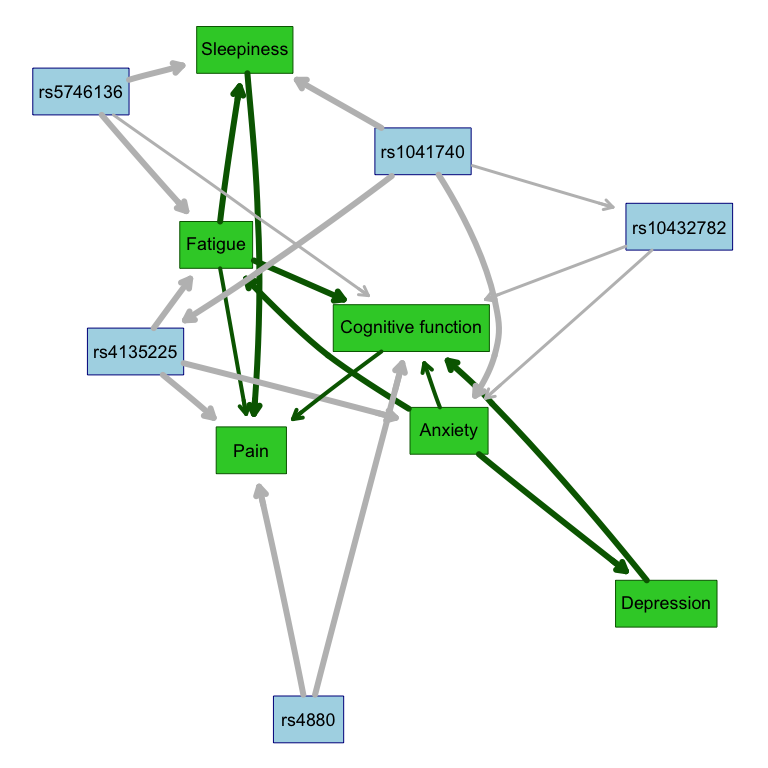
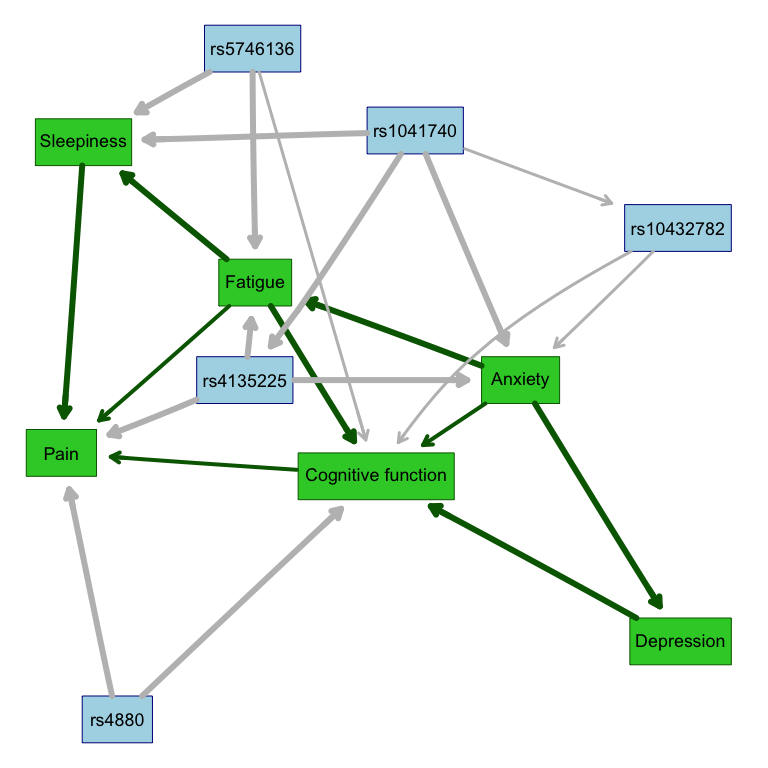
updating plots for mvbimbam and bnlearn

diff --git a/01_mvNUR_bnlearn.md b/01_mvNUR_bnlearn.md
@@ -305,73 +305,73 @@ results <- run_plot_graph(data = df, k_crossval = 5, k_iterations = 5, alpha = 0
 
     ## * overall cross-validated correlations:
     ##   > PREDCOR( EMO_tscore ): 0.3450264 
-    ##   > POSTCOR( EMO_tscore ): 0.3439605 
+    ##   > POSTCOR( EMO_tscore ): 0.3418341 
     ##   > PREDCOR( bdito ): 0.5794972 
-    ##   > POSTCOR( bdito ): 0.1529458 
+    ##   > POSTCOR( bdito ): 0.1564295 
     ##   > PREDCOR( FAT_tscore ): 0.7323366 
-    ##   > POSTCOR( FAT_tscore ): 0.4708158 
+    ##   > POSTCOR( FAT_tscore ): 0.4701054 
     ##   > PREDCOR( paohcif ): 0.6703178 
-    ##   > POSTCOR( paohcif ): 0.3067327 
+    ##   > POSTCOR( paohcif ): 0.3077809 
     ##   > PREDCOR( EPSscore ): 0.4307685 
-    ##   > POSTCOR( EPSscore ): 0.2767515 
+    ##   > POSTCOR( EPSscore ): 0.2783773 
     ##   > PREDCOR( pain ): 0.5086095 
-    ##   > POSTCOR( pain ): 0.3388915 
+    ##   > POSTCOR( pain ): 0.3444792 
     ## * overall cross-validated correlations:
     ##   > PREDCOR( EMO_tscore ): 0.3668206 
-    ##   > POSTCOR( EMO_tscore ): 0.3615989 
+    ##   > POSTCOR( EMO_tscore ): 0.3637307 
     ##   > PREDCOR( bdito ): 0.5824107 
-    ##   > POSTCOR( bdito ): 0.1558385 
+    ##   > POSTCOR( bdito ): 0.1742357 
     ##   > PREDCOR( FAT_tscore ): 0.7340804 
-    ##   > POSTCOR( FAT_tscore ): 0.4740632 
+    ##   > POSTCOR( FAT_tscore ): 0.4730514 
     ##   > PREDCOR( paohcif ): 0.6728188 
-    ##   > POSTCOR( paohcif ): 0.3080242 
+    ##   > POSTCOR( paohcif ): 0.3142044 
     ##   > PREDCOR( EPSscore ): 0.4332637 
-    ##   > POSTCOR( EPSscore ): 0.2864486 
+    ##   > POSTCOR( EPSscore ): 0.2818876 
     ##   > PREDCOR( pain ): 0.516585 
-    ##   > POSTCOR( pain ): 0.3434998 
+    ##   > POSTCOR( pain ): 0.3397383 
     ## * overall cross-validated correlations:
     ##   > PREDCOR( EMO_tscore ): 0.3362601 
-    ##   > POSTCOR( EMO_tscore ): 0.3342744 
+    ##   > POSTCOR( EMO_tscore ): 0.3351085 
     ##   > PREDCOR( bdito ): 0.6035443 
-    ##   > POSTCOR( bdito ): 0.1938742 
+    ##   > POSTCOR( bdito ): 0.1941734 
     ##   > PREDCOR( FAT_tscore ): 0.7327031 
-    ##   > POSTCOR( FAT_tscore ): 0.4666553 
+    ##   > POSTCOR( FAT_tscore ): 0.4663249 
     ##   > PREDCOR( paohcif ): 0.6564999 
-    ##   > POSTCOR( paohcif ): 0.3085996 
+    ##   > POSTCOR( paohcif ): 0.3083567 
     ##   > PREDCOR( EPSscore ): 0.4288491 
-    ##   > POSTCOR( EPSscore ): 0.2908705 
+    ##   > POSTCOR( EPSscore ): 0.2874386 
     ##   > PREDCOR( pain ): 0.5386219 
-    ##   > POSTCOR( pain ): 0.3468969 
+    ##   > POSTCOR( pain ): 0.3476662 
     ## * overall cross-validated correlations:
     ##   > PREDCOR( EMO_tscore ): 0.3339423 
-    ##   > POSTCOR( EMO_tscore ): 0.333824 
+    ##   > POSTCOR( EMO_tscore ): 0.3250112 
     ##   > PREDCOR( bdito ): 0.5858688 
-    ##   > POSTCOR( bdito ): 0.1773636 
+    ##   > POSTCOR( bdito ): 0.1595806 
     ##   > PREDCOR( FAT_tscore ): 0.7323323 
-    ##   > POSTCOR( FAT_tscore ): 0.4718722 
+    ##   > POSTCOR( FAT_tscore ): 0.471374 
     ##   > PREDCOR( paohcif ): 0.674619 
-    ##   > POSTCOR( paohcif ): 0.3257974 
+    ##   > POSTCOR( paohcif ): 0.3208565 
     ##   > PREDCOR( EPSscore ): 0.4576816 
-    ##   > POSTCOR( EPSscore ): 0.2958168 
+    ##   > POSTCOR( EPSscore ): 0.294876 
     ##   > PREDCOR( pain ): 0.5089625 
-    ##   > POSTCOR( pain ): 0.359927 
+    ##   > POSTCOR( pain ): 0.3600803 
     ## * overall cross-validated correlations:
     ##   > PREDCOR( EMO_tscore ): 0.3341934 
-    ##   > POSTCOR( EMO_tscore ): 0.3341523 
+    ##   > POSTCOR( EMO_tscore ): 0.3350945 
     ##   > PREDCOR( bdito ): 0.590734 
-    ##   > POSTCOR( bdito ): 0.1364593 
+    ##   > POSTCOR( bdito ): 0.1301288 
     ##   > PREDCOR( FAT_tscore ): 0.7350113 
-    ##   > POSTCOR( FAT_tscore ): 0.4753165 
+    ##   > POSTCOR( FAT_tscore ): 0.4736703 
     ##   > PREDCOR( paohcif ): 0.670765 
-    ##   > POSTCOR( paohcif ): 0.3163348 
+    ##   > POSTCOR( paohcif ): 0.317689 
     ##   > PREDCOR( EPSscore ): 0.4389516 
-    ##   > POSTCOR( EPSscore ): 0.2835305 
+    ##   > POSTCOR( EPSscore ): 0.2791155 
     ##   > PREDCOR( pain ): 0.5230457 
-    ##   > POSTCOR( pain ): 0.3402484 
+    ##   > POSTCOR( pain ): 0.3444847 
     ## EMO_tscore      bdito FAT_tscore    paohcif   EPSscore       pain 
     ##  0.3432486  0.5884110  0.7332928  0.6690041  0.4379029  0.5191649 
     ## EMO_tscore      bdito FAT_tscore    paohcif   EPSscore       pain 
-    ##  0.3415620  0.1632963  0.4717446  0.3130977  0.2866836  0.3458927 
+    ##  0.3401558  0.1629096  0.4709052  0.3137775  0.2843390  0.3472897 
     ## threshold:  0.6 
     ## min strength > threshold:  0.76 
     ## strength:  0 0 0 0 0 0 0 0 0 0 0 0 0 0 0 0 0 0 0 0 0 0 0 0 0 0 0 0 0 0 0 0 0 0 0 0 0 0 0 0 0.04 0.04 0.08 0.08 0.08 0.08 0.12 0.12 0.12 0.12 0.12 0.12 0.16 0.16 0.2 0.2 0.32 0.32 0.36 0.36 0.4 0.4 0.6 0.6 0.76 0.76 0.76 0.76 0.76 0.76 0.76 0.76 0.8 0.8 0.84 0.84 0.88 0.88 1 1 1 1 1 1 1 1 1 1 1 1 1 1 1 1 1 1 1 1 1 1 1 1 1 1 1 1 1 1 1 1

diff --git a/02_mvNUR_mvBIMBAM.md b/02_mvNUR_mvBIMBAM.md
@@ -42,7 +42,8 @@ splits phenotype-genotype associations into all possible partitions of
 U, D, and I, each representing ‘unassociated’, ‘directly’, and
 ‘indirectly’ associated. Details about the analyses and interpretation
 can be found below. Installation and troubleshooting instructions can be
-found in the README file.
+found in the README file (distributed as permitted under the creators
+original GPL-3 license).
 
 NOTE: The software executable is called ‘bimbam’, but we refer to the
 program as ‘mvBIMBAM’ throughout.
